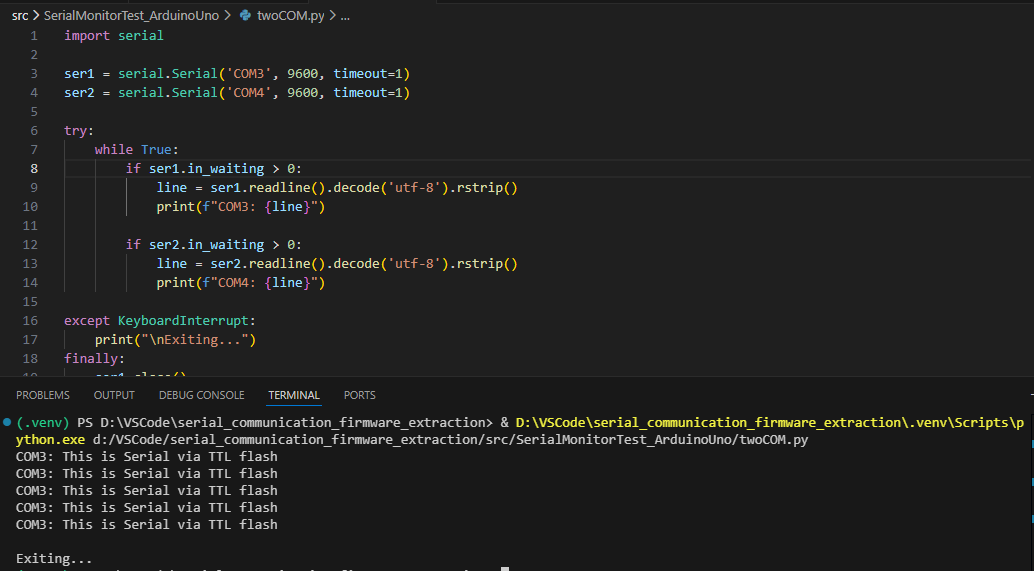
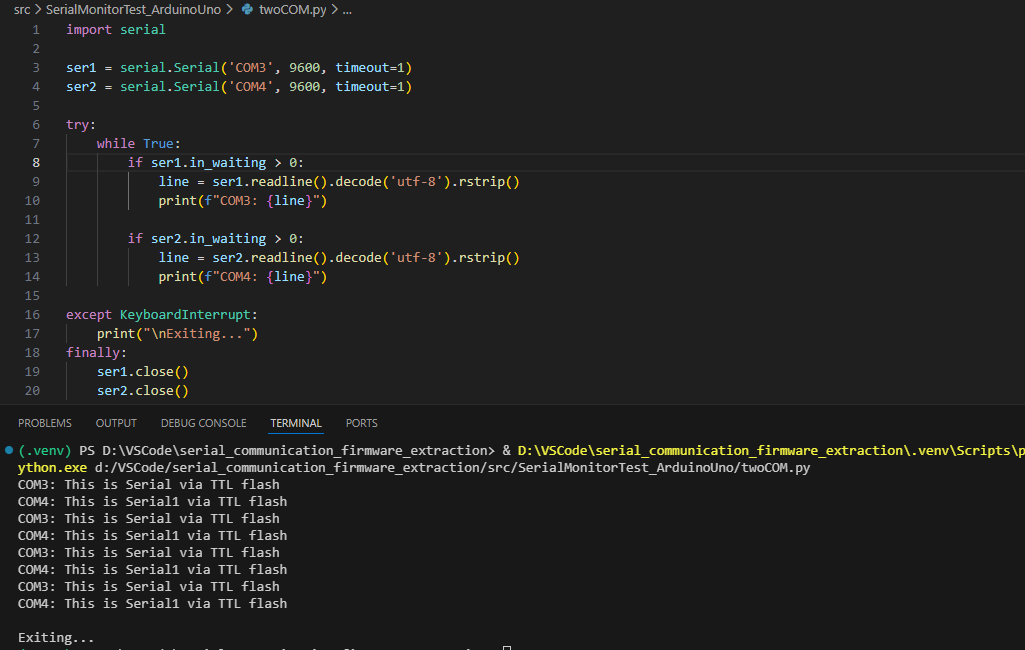
TX and RX Works

diff --git a/README.md b/README.md
@@ -56,7 +56,7 @@ TTL Cables are wires used for microcontrollers, embedded systems, or DIY electro
 ### Media (1)
 
 ![alt text](/media/SerialMonitorTest_ArduinoUno/SerialMonitorConnection.jpg)
-This figure showcases the USB-B connection to the Arduino Uno board. It also showcases the SoftwareSerial connection using a TTL cable as shown in the TTL Cable Specs sheet below. The connection goes Black-Red for GND, White-Red in Digital Pin 2 for RX, and Green-Orange in Digital Pin 3 for TX. This is based on the code given in [serialMonitorTest.ino](/src/SerialMonitorTest_ArduinoUno/serialMonitorTest.ino).
+This figure showcases the USB-B connection to the Arduino Uno board. It also showcases the SoftwareSerial connection using a TTL cable as shown in the TTL Cable Specs sheet below. The connection goes Black-Red for GND, White-Red in Digital Pin 3 for TX, and Green-Orange in Digital Pin 2 for RX. This is based on the code given in [serialMonitorTest.ino](/src/SerialMonitorTest_ArduinoUno/serialMonitorTest.ino).
 
 ### Experimental Process (1)
 1. Connect USB-B wire to Arduino Uno and Computer Port
@@ -75,11 +75,11 @@ This showcases a successful data upload onto the Arduino via USB-B.
 
 ### Discussion (1)
 
-Despite opening a new sketch window and selecting the relevant COM port for Serial Monitor, Arduino IDE 2.3.7 does not support dual Serial Monitoring.
+Despite opening a new sketch window and selecting the relevant COM port for Serial Monitor, Arduino IDE 2.3.7 does not support dual Serial Monitoring. This is explored and fixed in Part 2 with [twoCOM.py](/src/SerialMonitorTest_ArduinoUno/twoCOM.py).
 
 ----------------------------------------------------
 ## Project 2: Programming Arduino with TTL Cable
-This section involves programming an Arduino with a TTL cable.
+This section involves programming an Arduino with a TTL cable and reading out with Python.
 
 ### Short Background (2)
 Firmware is code that's embedded within a hardware device to help it function. It is also known as "software for hardware." Firmware delivers instructions for how the hardware device should start, interact with other devices, and execute I/O tasks.
@@ -132,9 +132,11 @@ Note: Steps 6-8 does not have to be done in order. The Arduino IDE used to uploa
 
 ### Results (2)
 
-The TTL cable has a failed serial communication detection as in part 1. However, the .py codes work in reading out data from the Arduino via the USB-B cable.
+The TTL cable works as expected by communicating both COM3 (USB-B for Arduino) and COM4 (TTL Cable). It showcases how the two COMs can communicate serial data from one Arduino microcontroller with Python through VSCode.
 
 ### Discussion (2)
+
+Flipping the TX and RX cable did not work the first time, but it worked the second time. Nonetheless, this Part 2 showcases how some shortcomings of original microcontroller firmware can be adjusted within Python.
 
 ----------------------------------------------------
 ## Project 3: Arduino as programmer/debug board with Arduino ISP
